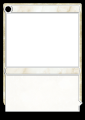
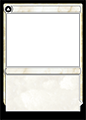
Add new transform back (white)

diff --git a/js/frames/packM15TransformBackNew.js b/js/frames/packM15TransformBackNew.js
@@ -1,0 +1,50 @@
+//Create objects for common properties across available frames
+var masks = [{src:'/img/frames/m15/transform/regular/new/maskPinlineBack.png', name:'Pinline'}, {src:'/img/frames/m15/transform/regular/new/maskTitle.png', name:'Title'}, {src:'/img/frames/m15/regular/m15MaskType.png', name:'Type'}, {src:'/img/frames/m15/regular/m15MaskRules.png', name:'Rules'}, {src:'/img/frames/m15/transform/regular/new/maskFrameBack.png', name:'Frame'}, {src:'/img/frames/m15/regular/m15MaskBorder.png', name:'Border'}];
+var bounds = {x:0.7573, y:0.8848, width:0.188, height:0.0733};
+//defines available frames
+availableFrames = [
+	{name:'White Frame', src:'/img/frames/m15/transform/regular/new/backW.png', masks:masks},
+	// {name:'Blue Frame', src:'/img/frames/m15/transform/regular/backU.png', masks:masks},
+	// {name:'Black Frame', src:'/img/frames/m15/transform/regular/backB.png', masks:masks},
+	// {name:'Red Frame', src:'/img/frames/m15/transform/regular/backR.png', masks:masks},
+	// {name:'Green Frame', src:'/img/frames/m15/transform/regular/backG.png', masks:masks},
+	// {name:'Multicolored Frame', src:'/img/frames/m15/transform/regular/backM.png', masks:masks},
+	// {name:'Artifact Frame', src:'/img/frames/m15/transform/regular/backA.png', masks:masks},
+	// {name:'Land Frame', src:'/img/frames/m15/transform/regular/backL.png', masks:masks},
+	{name:'White Power/Toughness', src:'/img/frames/m15/transform/regular/ptW.png', bounds:bounds}
+	// {name:'Blue Power/Toughness', src:'/img/frames/m15/transform/regular/ptU.png', bounds:bounds},
+	// {name:'Black Power/Toughness', src:'/img/frames/m15/transform/regular/ptB.png', bounds:bounds},
+	// {name:'Red Power/Toughness', src:'/img/frames/m15/transform/regular/ptR.png', bounds:bounds},
+	// {name:'Green Power/Toughness', src:'/img/frames/m15/transform/regular/ptG.png', bounds:bounds},
+	// {name:'Multicolored Power/Toughness', src:'/img/frames/m15/transform/regular/ptM.png', bounds:bounds},
+	// {name:'Artifact Power/Toughness', src:'/img/frames/m15/transform/regular/ptA.png', bounds:bounds}
+];
+//disables/enables the "Load Frame Version" button
+document.querySelector('#loadFrameVersion').disabled = false;
+//defines process for loading this version, if applicable
+document.querySelector('#loadFrameVersion').onclick = async function() {
+	//resets things so that every frame doesn't have to
+	await resetCardIrregularities();
+	//sets card version
+	card.version = 'm15TransformFront';
+	//art bounds
+	card.artBounds = {x:0.0767, y:0.1129, width:0.8476, height:0.4429};
+	autoFitArt();
+	//set symbol bounds
+	card.setSymbolBounds = {x:0.9213, y:0.5910, width:0.12, height:0.0410, vertical:'center', horizontal: 'right'};
+	resetSetSymbol();
+	//watermark bounds
+	card.watermarkBounds = {x:0.5, y:0.7762, width:0.75, height:0.2305};
+	resetWatermark();
+	//text
+	loadTextOptions({
+		mana: {name:'Mana Cost', text:'', y:0.0613, width:0.9292, height:71/2100, oneLine:true, size:71/1638, align:'right', shadowX:-0.001, shadowY:0.0029, manaCost:true, manaSpacing:0},
+		title: {name:'Title', text:'', x:0.0854, y:0.0522, width:0.7547, height:0.0543, oneLine:true, font:'belerenb', size:0.0381, color:'white'},
+		type: {name:'Type', text:'', x:0.0854, y:0.5664, width:0.8292, height:0.0543, oneLine:true, font:'belerenb', size:0.0324, color:'white'},
+		rules: {name:'Rules Text', text:'', x:0.086, y:0.6303, width:0.828, height:0.2875, size:0.0362},
+		pt: {name:'Power/Toughness', text:'', x:0.7928, y:0.902, width:0.1367, height:0.0372, size:0.0372, font:'belerenbsc', oneLine:true, align:'center', color:'white'}
+	});
+	notify('If you intend to add the color identity pips, we recommend that you shift your Type text to the right with "{right66}".')
+}
+//loads available frames
+loadFramePack();

diff --git a/js/frames/packTransformLegendCrowns.js b/js/frames/packTransformLegendCrowns.js
@@ -3,14 +3,15 @@ var masks = [{src:'/img/frames/m15/crowns/m15MaskLegendCrown.png', name:'Crown W
 var bounds = {x:0.0274, y:0.0191, width:0.9454, height:0.1667};
 //defines available frames
 availableFrames = [
-	{name:'White Legend Crown', src:'/img/frames/m15/transform/crowns/regular/w.png', masks:masks, bounds:bounds, complementary:8},
-	{name:'Blue Legend Crown', src:'/img/frames/m15/transform/crowns/regular/u.png', masks:masks, bounds:bounds, complementary:8},
-	{name:'Black Legend Crown', src:'/img/frames/m15/transform/crowns/regular/b.png', masks:masks, bounds:bounds, complementary:8},
-	{name:'Red Legend Crown', src:'/img/frames/m15/transform/crowns/regular/r.png', masks:masks, bounds:bounds, complementary:8},
-	{name:'Green Legend Crown', src:'/img/frames/m15/transform/crowns/regular/g.png', masks:masks, bounds:bounds, complementary:8},
-	{name:'Multicolored Legend Crown', src:'/img/frames/m15/transform/crowns/regular/m.png', masks:masks, bounds:bounds, complementary:8},
-	{name:'Artifact Legend Crown', src:'/img/frames/m15/transform/crowns/regular/a.png', masks:masks, bounds:bounds, complementary:8},
-	{name:'Land Legend Crown', src:'/img/frames/m15/transform/crowns/regular/l.png', masks:masks, bounds:bounds, complementary:8},
+	{name:'White Legend Crown', src:'/img/frames/m15/transform/crowns/regular/w.png', masks:masks, bounds:bounds, complementary:9},
+	{name:'Blue Legend Crown', src:'/img/frames/m15/transform/crowns/regular/u.png', masks:masks, bounds:bounds, complementary:9},
+	{name:'Black Legend Crown', src:'/img/frames/m15/transform/crowns/regular/b.png', masks:masks, bounds:bounds, complementary:9},
+	{name:'Red Legend Crown', src:'/img/frames/m15/transform/crowns/regular/r.png', masks:masks, bounds:bounds, complementary:9},
+	{name:'Green Legend Crown', src:'/img/frames/m15/transform/crowns/regular/g.png', masks:masks, bounds:bounds, complementary:9},
+	{name:'Multicolored Legend Crown', src:'/img/frames/m15/transform/crowns/regular/m.png', masks:masks, bounds:bounds, complementary:9},
+	{name:'Artifact Legend Crown', src:'/img/frames/m15/transform/crowns/regular/a.png', masks:masks, bounds:bounds, complementary:9},
+	{name:'Land Legend Crown', src:'/img/frames/m15/transform/crowns/regular/l.png', masks:masks, bounds:bounds, complementary:9},
+	{name:'White Legend Crown (Back)', src:'/img/frames/m15/transform/crowns/regular/new/w.png', masks:masks, bounds:bounds, complementary:9},
 	{name:'Legend Crown Border Cover', src:'/img/black.png', bounds:{x:0.0394, y:0.0277, width:0.9214, height:0.0177}}
 ];
 //disables/enables the "Load Frame Version" button

diff --git a/js/frames/packM15Nickname-2.js b/js/frames/packM15Nickname-2.js
@@ -1,5 +1,5 @@
 //Create objects for common properties across available frames
-var masks3 = [{src:'/img/frames/m15/nickname/m15NicknameMaskTrueName.png', name:'True Title'}];
+var masks3 = [{src:'/img/frames/m15/nickname/m15MaskNicknameTitleStrokeless.png', name:'Pinline'}, {src:'/img/frames/m15/nickname/m15NicknameMaskTrueName.png', name:'True Title'}];
 var bounds3 = {x:0.0494, y:0.0405, width:0.9014, height:0.1053};
 //defines available frames
 availableFrames = [

diff --git a/js/frames/groupDFC.js b/js/frames/groupDFC.js
@@ -1,6 +1,7 @@
 loadFramePacks([
 	{name:'Transform (Front)', value:'M15TransformFront'},
 	{name:'Transform (Back)', value:'M15TransformBack'},
+	{name:'Transform (Back) (New)', value:'M15TransformBackNew'},
 	{name:'Color Identity Pips', value:'M15CIPips'},
 	{name:'Transform Icons', value:'M15TransformTypes'},
 	{name:'Other Cardtypes', value:'disabled'},

diff --git a/js/frameSearch.js b/js/frameSearch.js
@@ -88,6 +88,7 @@ const frameNames = new Map ([
 	//dfc
 	['Transform (Front)', 'M15TransformFront'],
 	['Transform (Back)', 'M15TransformBack'],
+	['Transform (Back) (New)', 'M15TransformBackNew'],
 	['Color Identity Pips', 'M15CIPips'],
 	['Transform Icons', 'M15TransformTypes'],
 	['Sagas (Front)', 'SagaDFC'],
